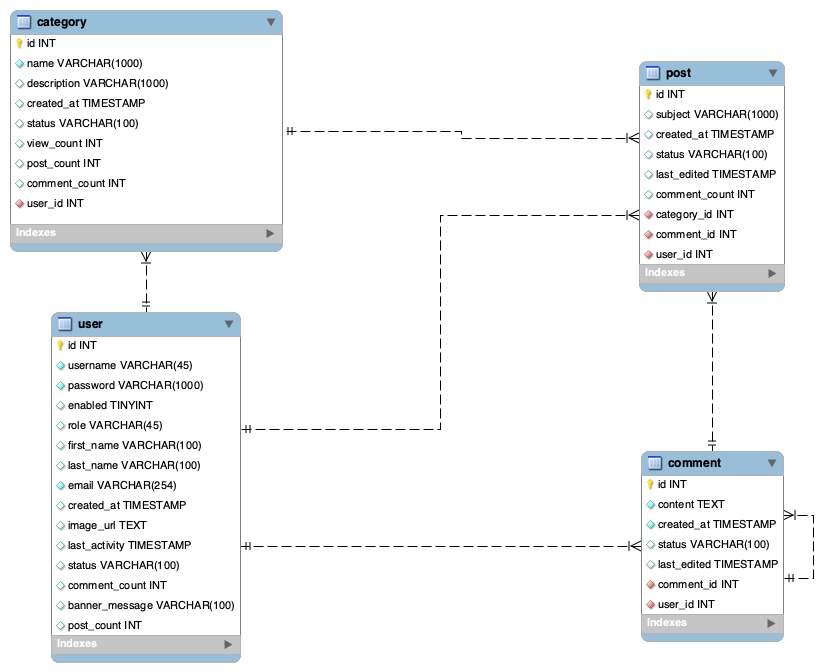
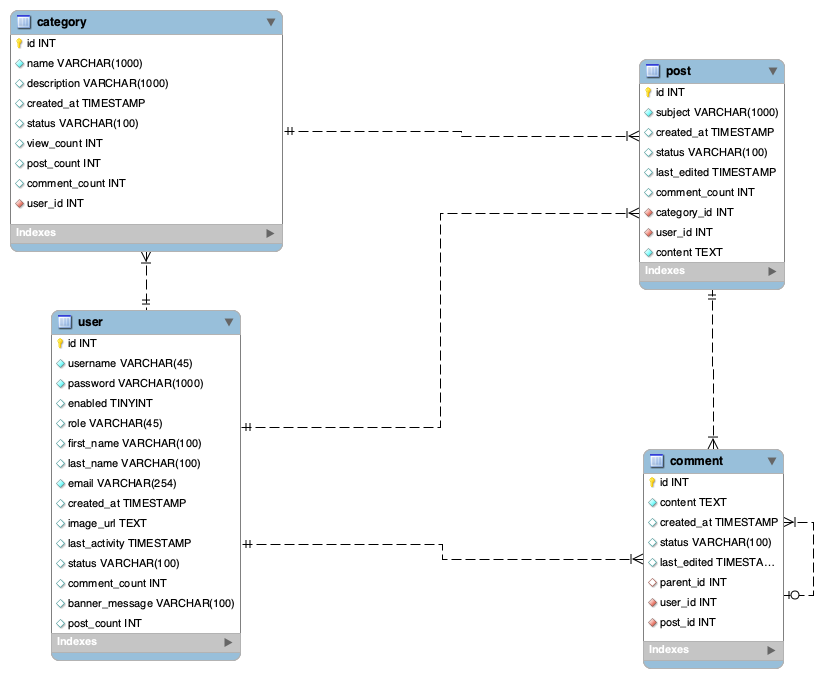
Move foreign key location from post table to comment table, create and successfully test thorough junit tests for each entity which are category, post, comment, and user

diff --git a/JPALoreHunter/src/test/java/com/skilldistillery/lorehunter/entities/CommentTest.java b/JPALoreHunter/src/test/java/com/skilldistillery/lorehunter/entities/CommentTest.java
@@ -1,8 +1,6 @@
 package com.skilldistillery.lorehunter.entities;
 
-import static org.junit.jupiter.api.Assertions.assertEquals;
-import static org.junit.jupiter.api.Assertions.assertNotNull;
-import static org.junit.jupiter.api.Assertions.assertTrue;
+import static org.junit.jupiter.api.Assertions.*;
 
 import javax.persistence.EntityManager;
 import javax.persistence.EntityManagerFactory;
@@ -14,11 +12,11 @@ import org.junit.jupiter.api.BeforeAll;
 import org.junit.jupiter.api.BeforeEach;
 import org.junit.jupiter.api.Test;
 
-class UserTest {
-	
+class CommentTest {
+
 	private static EntityManagerFactory emf;
 	private EntityManager em;
-	private User user;
+	private Comment comment;
 
 	@BeforeAll
 	static void setUpBeforeClass() throws Exception {
@@ -33,37 +31,37 @@ class UserTest {
 	@BeforeEach
 	void setUp() throws Exception {
 		em = emf.createEntityManager();
-		user = em.find(User.class, 1);
+		comment = em.find(Comment.class, 1);
 	}
 
 	@AfterEach
 	void tearDown() throws Exception {
 		em.close();
-		user = null;
+		comment = null;
 	}
 
 	@Test
-	void test_User_entity_mapping() {
-		assertNotNull(user);
-		assertEquals("admin", user.getUsername());
+	void test_Comment_entity_mapping() {
+		assertNotNull(comment);
+		assertEquals("Glad we are finally getting some solid gameplay footage.", comment.getContent());
 	}
 	
 	@Test
-	void test_User_Category_one_to_many_mapping() {
-		assertNotNull(user);
-		assertTrue(user.getCategories().size() > 0);
+	void test_Comment_Post_one_to_one_mapping() {
+		assertNotNull(comment);
+		assertEquals("[Reddit Rumor] Embargo preview FFXVI lifted next week", comment.getPost().getSubject());
 	}
 	
 	@Test
-	void test_User_Post_one_to_many_mapping() {
-		assertNotNull(user);
-		assertTrue(user.getPosts().size() > 0);
+	void test_Comment_Category_one_to_one_mapping() {
+		assertNotNull(comment);
+		assertEquals("Gaming Forum", comment.getPost().getCategory().getName());
 	}
 	
 	@Test
-	void test_User_Comment_one_to_many_mapping() {
-		assertNotNull(user);
-		assertTrue(user.getComments().size() > 0);
+	void test_Comment_User_one_to_one_mapping() {
+		assertNotNull(comment);
+		assertEquals("admin", comment.getUser().getUsername());
 	}
 
 }

diff --git a/JPALoreHunter/src/test/java/com/skilldistillery/lorehunter/entities/PostTest.java b/JPALoreHunter/src/test/java/com/skilldistillery/lorehunter/entities/PostTest.java
@@ -1,8 +1,6 @@
 package com.skilldistillery.lorehunter.entities;
 
-import static org.junit.jupiter.api.Assertions.assertEquals;
-import static org.junit.jupiter.api.Assertions.assertNotNull;
-import static org.junit.jupiter.api.Assertions.assertTrue;
+import static org.junit.jupiter.api.Assertions.*;
 
 import javax.persistence.EntityManager;
 import javax.persistence.EntityManagerFactory;
@@ -14,11 +12,11 @@ import org.junit.jupiter.api.BeforeAll;
 import org.junit.jupiter.api.BeforeEach;
 import org.junit.jupiter.api.Test;
 
-class UserTest {
-	
+class PostTest {
+
 	private static EntityManagerFactory emf;
 	private EntityManager em;
-	private User user;
+	private Post post;
 
 	@BeforeAll
 	static void setUpBeforeClass() throws Exception {
@@ -33,37 +31,37 @@ class UserTest {
 	@BeforeEach
 	void setUp() throws Exception {
 		em = emf.createEntityManager();
-		user = em.find(User.class, 1);
+		post = em.find(Post.class, 1);
 	}
 
 	@AfterEach
 	void tearDown() throws Exception {
 		em.close();
-		user = null;
+		post = null;
 	}
 
 	@Test
-	void test_User_entity_mapping() {
-		assertNotNull(user);
-		assertEquals("admin", user.getUsername());
+	void test_Post_entity_mapping() {
+		assertNotNull(post);
+		assertEquals("[Reddit Rumor] Embargo preview FFXVI lifted next week", post.getSubject());
 	}
 	
 	@Test
-	void test_User_Category_one_to_many_mapping() {
-		assertNotNull(user);
-		assertTrue(user.getCategories().size() > 0);
+	void test_Post_Category_one_to_one_mapping() {
+		assertNotNull(post);
+		assertEquals("Gaming Forum", post.getCategory().getName());
 	}
 	
 	@Test
-	void test_User_Post_one_to_many_mapping() {
-		assertNotNull(user);
-		assertTrue(user.getPosts().size() > 0);
+	void test_Post_User_one_to_one_mapping() {
+		assertNotNull(post);
+		assertEquals("admin", post.getUser().getUsername());
 	}
 	
 	@Test
-	void test_User_Comment_one_to_many_mapping() {
-		assertNotNull(user);
-		assertTrue(user.getComments().size() > 0);
+	void test_Post_Comment_one_to_many_mapping() {
+		assertNotNull(post);
+		assertTrue(post.getComments().size() > 0);
 	}
-
+	
 }

diff --git a/JPALoreHunter/src/test/java/com/skilldistillery/lorehunter/entities/CategoryTest.java b/JPALoreHunter/src/test/java/com/skilldistillery/lorehunter/entities/CategoryTest.java
@@ -14,11 +14,11 @@ import org.junit.jupiter.api.BeforeAll;
 import org.junit.jupiter.api.BeforeEach;
 import org.junit.jupiter.api.Test;
 
-class UserTest {
-	
+class CategoryTest {
+
 	private static EntityManagerFactory emf;
 	private EntityManager em;
-	private User user;
+	private Category category;
 
 	@BeforeAll
 	static void setUpBeforeClass() throws Exception {
@@ -33,37 +33,37 @@ class UserTest {
 	@BeforeEach
 	void setUp() throws Exception {
 		em = emf.createEntityManager();
-		user = em.find(User.class, 1);
+		category = em.find(Category.class, 1);
 	}
 
 	@AfterEach
 	void tearDown() throws Exception {
 		em.close();
-		user = null;
+		category = null;
 	}
 
 	@Test
-	void test_User_entity_mapping() {
-		assertNotNull(user);
-		assertEquals("admin", user.getUsername());
+	void test_Category_entity_mapping() {
+		assertNotNull(category);
+		assertEquals("Gaming Forum", category.getName());
 	}
 	
 	@Test
-	void test_User_Category_one_to_many_mapping() {
-		assertNotNull(user);
-		assertTrue(user.getCategories().size() > 0);
+	void test_Category_Post_one_to_many_mapping() {
+		assertNotNull(category);
+		assertTrue(category.getPosts().size() > 0);
 	}
 	
 	@Test
-	void test_User_Post_one_to_many_mapping() {
-		assertNotNull(user);
-		assertTrue(user.getPosts().size() > 0);
+	void test_Category_User_one_to_one_mapping() {
+		assertNotNull(category);
+		assertEquals("admin", category.getUser().getUsername());
 	}
 	
 	@Test
-	void test_User_Comment_one_to_many_mapping() {
-		assertNotNull(user);
-		assertTrue(user.getComments().size() > 0);
+	void test_Category_Comment_one_to_many_mapping() {
+		assertNotNull(category);
+		assertEquals("Glad we are finally getting some solid gameplay footage.", category.getPosts().get(0).getComments().get(0).getContent());
 	}
 
 }

diff --git a/JPALoreHunter/src/main/java/com/skilldistillery/lorehunter/entities/User.java b/JPALoreHunter/src/main/java/com/skilldistillery/lorehunter/entities/User.java
@@ -49,7 +49,7 @@ public class User {
 	private String status;
 	
 	@Column(name = "comment_count")
-	private int commentCount;
+	private Integer commentCount;
 	
 	@Column(name = "banner_message")
 	private String bannerMessage;
@@ -72,7 +72,7 @@ public class User {
 
 	public User(int id, String username, String password, Boolean enabled, String role, String firstName,
 			String lastName, String email, LocalDateTime createdAt, String imageUrl, LocalDateTime lastActivity,
-			String status, int commentCount, String bannerMessage, List<Category> categories, List<Post> posts,
+			String status, Integer commentCount, String bannerMessage, List<Category> categories, List<Post> posts,
 			List<Comment> comments, Integer postCount) {
 		super();
 		this.id = id;
@@ -191,11 +191,11 @@ public class User {
 		this.status = status;
 	}
 
-	public int getCommentCount() {
+	public Integer getCommentCount() {
 		return commentCount;
 	}
 
-	public void setCommentCount(int commentCount) {
+	public void setCommentCount(Integer commentCount) {
 		this.commentCount = commentCount;
 	}
 

diff --git a/JPALoreHunter/src/main/java/com/skilldistillery/lorehunter/entities/Comment.java b/JPALoreHunter/src/main/java/com/skilldistillery/lorehunter/entities/Comment.java
@@ -19,6 +19,8 @@ import javax.persistence.Transient;
 
 import org.hibernate.annotations.CreationTimestamp;
 
+import com.fasterxml.jackson.annotation.JsonIgnore;
+
 @Entity
 public class Comment {
 	
@@ -50,11 +52,12 @@ public class Comment {
     private Integer commentId;
 
     @ManyToOne(fetch = FetchType.LAZY, optional=true)
-    @JoinColumn(name="comment_id")
+    @JoinColumn(name="parent_id")
     private Comment parentComment;
     
-    @OneToMany(mappedBy="comment", fetch = FetchType.LAZY, cascade = CascadeType.ALL, orphanRemoval=true)
-    private Set<Comment> childComment = new HashSet<Comment>();
+//    @JsonIgnore
+//    @OneToMany(mappedBy="comment", fetch = FetchType.LAZY, cascade = CascadeType.ALL, orphanRemoval=true)
+//    private Set<Comment> childComment = new HashSet<Comment>();
 
 	public Comment() {
 		super();
